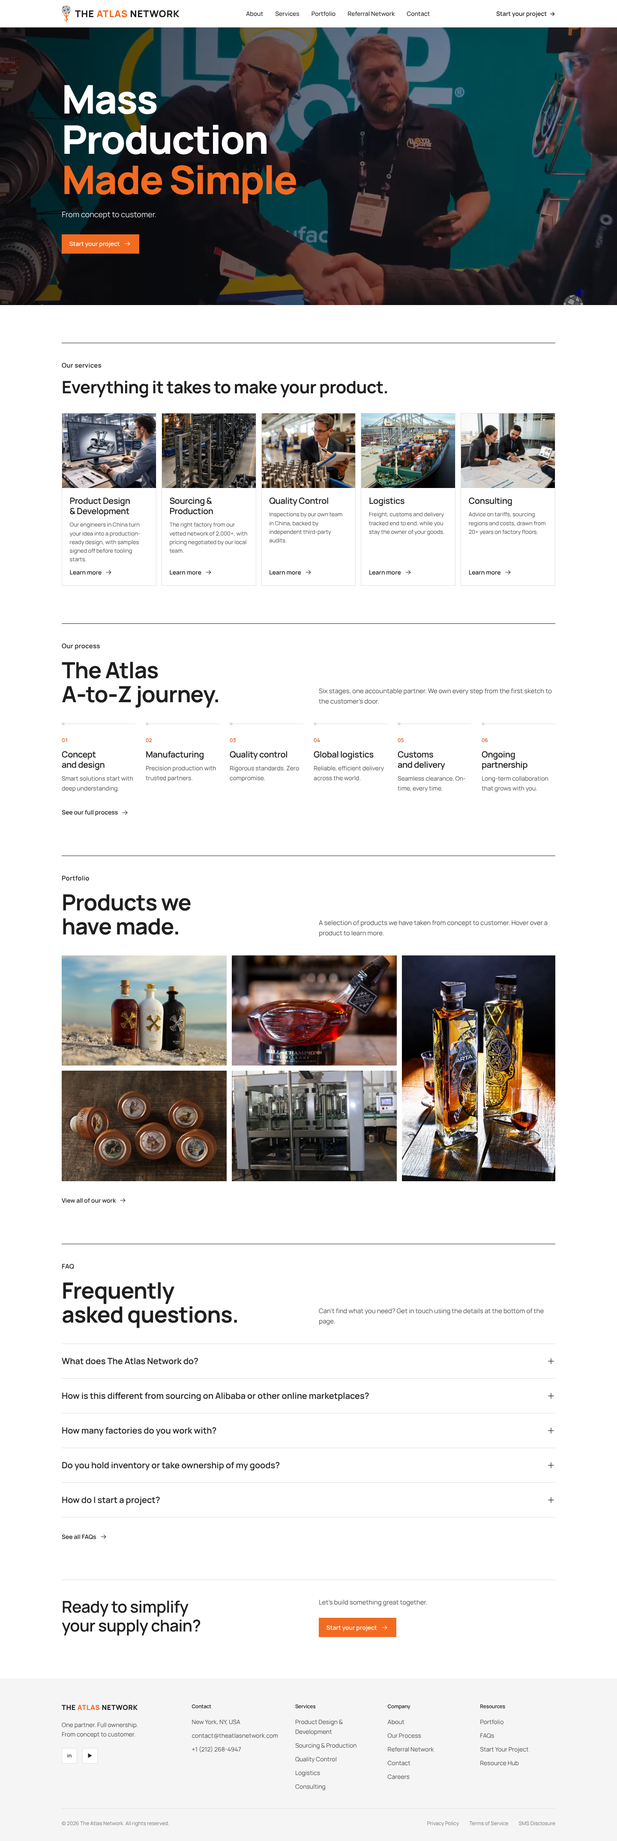
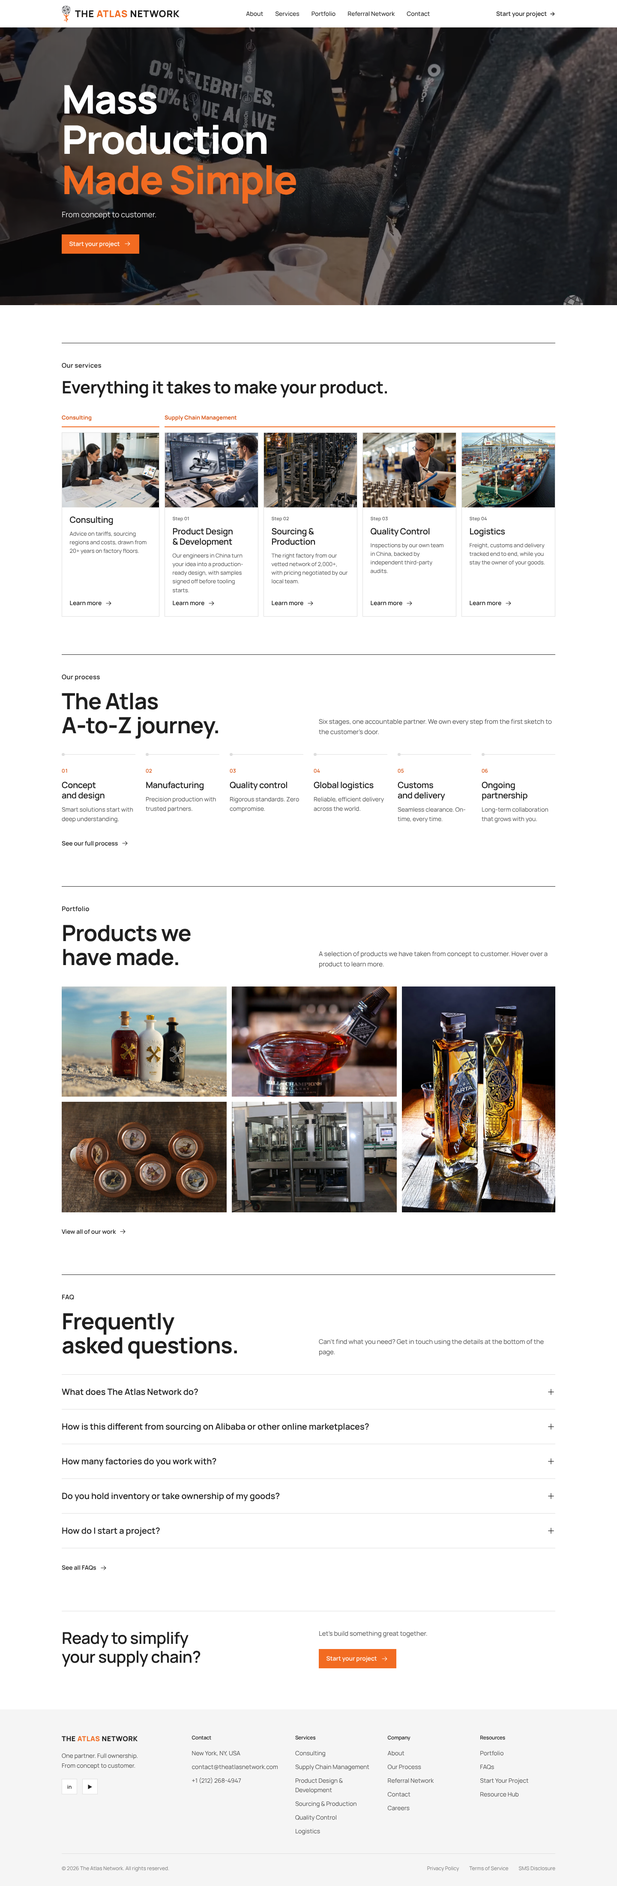
Group services as Consulting, then Supply Chain Management
Supply Chain Management now holds Product Design & Development,
Sourcing & Production, Quality Control and Logistics as its four
steps, on the Services page, the homepage cards and the footer.

Claude-Session: https://claude.ai/code/session_01YL3eWvwcXdoF4z8yaZ8Eba

diff --git a/services.html b/services.html
@@ -4,7 +4,7 @@
 <meta charset="utf-8"/>
 <meta name="viewport" content="width=device-width, initial-scale=1, viewport-fit=cover"/>
 <meta name="theme-color" content="#ffffff"/>
-<title>Our Services | The Atlas Network</title>
+<title>Services | The Atlas Network</title>
 <meta name="description" content="The Atlas Network is a full-service supply chain company that manages your product end-to-end - concept and design, manufacturing, quality control, global logistics, customs and delivery."/>
 <meta name="robots" content="noindex, follow"/>
 <link rel="preconnect" href="https://fonts.googleapis.com"/>
@@ -37,16 +37,58 @@
 <main id="top">
   <section class="page-head">
     <div class="container">
-      <nav class="crumbs" aria-label="Breadcrumb"><a href="index.html">Home</a><span aria-hidden="true">/</span><span>Our Services</span></nav>
+      <nav class="crumbs" aria-label="Breadcrumb"><a href="index.html">Home</a><span aria-hidden="true">/</span><span>Services</span></nav>
       <h1>Everything it takes to <span>make your product.</span></h1>
-      <p class="lead">From the first sketch to final delivery, The Atlas Network manages your product through our team in New York and our own staff in China. Use one service or all five; either way, one team is accountable for the result.</p>
-      <nav class="jump" aria-label="Services on this page"><a href="#product-design">Product Design &amp; Development</a><a href="#sourcing-production">Sourcing &amp; Production</a><a href="#quality-control">Quality Control</a><a href="#logistics">Logistics</a><a href="#consulting">Consulting</a></nav>
+      <p class="lead">The Atlas Network offers two services. Consulting helps you make the right supply chain decisions; supply chain management puts our team in New York and our own staff in China to work on your product, from design to delivery.</p>
+      <nav class="jump" aria-label="Services on this page"><a href="#consulting">Consulting</a><a href="#supply-chain">Supply Chain Management</a></nav>
     </div>
   </section>
 
-  <section id="product-design" class="detail">
+  <section id="consulting" class="detail">
     <div class="container">
-      <div class="detail-head"><span class="eyebrow">Our services</span><h2>Product Design &amp; Development</h2></div>
+      <div class="detail-head"><span class="eyebrow">Service 01</span><h2>Consulting</h2></div>
+      <div class="detail-grid">
+        <div class="detail-media"><img src="assets/images/services/consulting.webp" alt="" loading="lazy"/></div>
+        <div class="detail-body">
+          <p class="lead">Not every challenge needs a new factory. Sometimes it needs someone who knows how global supply chains really work.</p>
+          <p>We review your current suppliers, costs and lead times and show you where money and time are being lost. Our advice draws on more than 20 years of sourcing and manufacturing experience, and on what our teams see on factory floors every day.</p>
+          <p>Clients come to us for help with tariffs, choosing between China, Southeast Asia and nearshoring, switching materials when input costs change, and building supply chains that can absorb disruption. We can advise on a single decision or work alongside your team over the long term.</p>
+        </div>
+      </div>
+      <div class="includes">
+        <span class="eyebrow">What's included</span>
+        <ul>
+            <li class="hover-title"><h3>Supply chain audits</h3><p>A clear picture of your suppliers, costs and weak points.</p></li>
+            <li class="hover-title"><h3>Tariff &amp; duty planning</h3><p>Strategies to manage tariffs and landed cost as rules change.</p></li>
+            <li class="hover-title"><h3>Sourcing strategy</h3><p>Where to make your product: China, Southeast Asia or closer to home.</p></li>
+            <li class="hover-title"><h3>Cost reduction</h3><p>Savings found in materials, pricing, packaging and freight.</p></li>
+            <li class="hover-title"><h3>Risk management</h3><p>Plans for delays, disruptions and single-supplier dependence.</p></li>
+            <li class="hover-title"><h3>Ongoing advisory</h3><p>An experienced partner on call as your business grows.</p></li>
+        </ul>
+      </div>
+    </div>
+  </section>
+  <section id="supply-chain" class="detail">
+    <div class="container">
+      <div class="detail-head"><span class="eyebrow">Service 02</span><h2>Supply Chain Management</h2></div>
+      <div class="scm-intro">
+        <p class="lead">One team manages your product from design to delivery. You stay the consignee and owner of your goods; we coordinate everything in between.</p>
+        <div class="prose-cols">
+        <p>Supply chain management at The Atlas Network brings four steps together under one accountable team. Our staff in Rizhao, China design and engineer the product, select the factory from our vetted network of 2,000+, inspect the work and track every shipment, while our team in New York keeps you informed throughout.</p>
+        <p>Because we work as a 5PL without holding inventory, you keep full visibility of costs and suppliers. Use the whole chain, or bring us in for the steps where you need help most.</p>
+        </div>
+      </div>
+      <ol class="steps steps--4 scm-steps">
+        <li class="step hover-title"><a href="#product-design"><span class="num">01</span><h3>Product Design &amp; Development</h3><p>Our engineers in China turn your idea into a production-ready design, with samples signed off before tooling starts.</p></a></li>
+        <li class="step hover-title"><a href="#sourcing-production"><span class="num">02</span><h3>Sourcing &amp; Production</h3><p>The right factory from our vetted network of 2,000+, with pricing negotiated by our local team.</p></a></li>
+        <li class="step hover-title"><a href="#quality-control"><span class="num">03</span><h3>Quality Control</h3><p>Inspections by our own team in China, backed by independent third-party audits.</p></a></li>
+        <li class="step hover-title"><a href="#logistics"><span class="num">04</span><h3>Logistics</h3><p>Freight, customs and delivery tracked end to end, while you stay the owner of your goods.</p></a></li>
+      </ol>
+    </div>
+  </section>
+  <section id="product-design" class="detail detail--sub">
+    <div class="container">
+      <div class="detail-head"><span class="eyebrow">Supply chain management &middot; Step 01</span><h2>Product Design &amp; Development</h2></div>
       <div class="detail-grid">
         <div class="detail-media"><img src="assets/images/services/product-design.webp" alt="" loading="lazy"/></div>
         <div class="detail-body">
@@ -68,9 +110,9 @@
       </div>
     </div>
   </section>
-  <section id="sourcing-production" class="detail">
+  <section id="sourcing-production" class="detail detail--sub">
     <div class="container">
-      <div class="detail-head"><span class="eyebrow">Our services</span><h2>Sourcing &amp; Production</h2></div>
+      <div class="detail-head"><span class="eyebrow">Supply chain management &middot; Step 02</span><h2>Sourcing &amp; Production</h2></div>
       <div class="detail-grid">
         <div class="detail-media"><img src="assets/images/services/sourcing-production.webp" alt="" loading="lazy"/></div>
         <div class="detail-body">
@@ -92,9 +134,9 @@
       </div>
     </div>
   </section>
-  <section id="quality-control" class="detail">
+  <section id="quality-control" class="detail detail--sub">
     <div class="container">
-      <div class="detail-head"><span class="eyebrow">Our services</span><h2>Quality Control</h2></div>
+      <div class="detail-head"><span class="eyebrow">Supply chain management &middot; Step 03</span><h2>Quality Control</h2></div>
       <div class="detail-grid">
         <div class="detail-media"><img src="assets/images/services/quality-control.webp" alt="" loading="lazy"/></div>
         <div class="detail-body">
@@ -116,9 +158,9 @@
       </div>
     </div>
   </section>
-  <section id="logistics" class="detail">
+  <section id="logistics" class="detail detail--sub">
     <div class="container">
-      <div class="detail-head"><span class="eyebrow">Our services</span><h2>Logistics</h2></div>
+      <div class="detail-head"><span class="eyebrow">Supply chain management &middot; Step 04</span><h2>Logistics</h2></div>
       <div class="detail-grid">
         <div class="detail-media"><img src="assets/images/services/logistics.webp" alt="" loading="lazy"/></div>
         <div class="detail-body">
@@ -136,30 +178,6 @@
             <li class="hover-title"><h3>Customs clearance</h3><p>Entries filed and goods released without delays.</p></li>
             <li class="hover-title"><h3>Duties &amp; compliance</h3><p>Classification and duty planning to avoid costly surprises.</p></li>
             <li class="hover-title"><h3>Storage &amp; delivery</h3><p>Warehousing and final-mile delivery to wherever your goods need to be.</p></li>
-        </ul>
-      </div>
-    </div>
-  </section>
-  <section id="consulting" class="detail">
-    <div class="container">
-      <div class="detail-head"><span class="eyebrow">Our services</span><h2>Consulting</h2></div>
-      <div class="detail-grid">
-        <div class="detail-media"><img src="assets/images/services/consulting.webp" alt="" loading="lazy"/></div>
-        <div class="detail-body">
-          <p class="lead">Not every challenge needs a new factory. Sometimes it needs someone who knows how global supply chains really work.</p>
-          <p>We review your current suppliers, costs and lead times and show you where money and time are being lost. Our advice draws on more than 20 years of sourcing and manufacturing experience, and on what our teams see on factory floors every day.</p>
-          <p>Clients come to us for help with tariffs, choosing between China, Southeast Asia and nearshoring, switching materials when input costs change, and building supply chains that can absorb disruption. We can advise on a single decision or work alongside your team over the long term.</p>
-        </div>
-      </div>
-      <div class="includes">
-        <span class="eyebrow">What's included</span>
-        <ul>
-            <li class="hover-title"><h3>Supply chain audits</h3><p>A clear picture of your suppliers, costs and weak points.</p></li>
-            <li class="hover-title"><h3>Tariff &amp; duty planning</h3><p>Strategies to manage tariffs and landed cost as rules change.</p></li>
-            <li class="hover-title"><h3>Sourcing strategy</h3><p>Where to make your product: China, Southeast Asia or closer to home.</p></li>
-            <li class="hover-title"><h3>Cost reduction</h3><p>Savings found in materials, pricing, packaging and freight.</p></li>
-            <li class="hover-title"><h3>Risk management</h3><p>Plans for delays, disruptions and single-supplier dependence.</p></li>
-            <li class="hover-title"><h3>Ongoing advisory</h3><p>An experienced partner on call as your business grows.</p></li>
         </ul>
       </div>
     </div>
@@ -200,11 +218,12 @@
       <div>
         <h3>Services</h3>
         <ul>
+          <li><a href="services.html#consulting">Consulting</a></li>
+          <li><a href="services.html#supply-chain">Supply Chain Management</a></li>
           <li><a href="services.html#product-design">Product Design &amp; Development</a></li>
           <li><a href="services.html#sourcing-production">Sourcing &amp; Production</a></li>
           <li><a href="services.html#quality-control">Quality Control</a></li>
           <li><a href="services.html#logistics">Logistics</a></li>
-          <li><a href="services.html#consulting">Consulting</a></li>
         </ul>
       </div>
       <div>

diff --git a/index.html b/index.html
@@ -55,47 +55,55 @@
       <div class="section-head section-head--inline">
         <div><span class="eyebrow">Our services</span><h2>Everything it takes to make your product.</h2></div>
       </div>
-      <div class="services">
-        <a class="service hover-title" href="services.html#product-design">
-          <div class="service-img"><img src="assets/images/services/product-design.webp" alt="" loading="lazy"/></div>
-          <div class="service-body">
-            <h3>Product Design &amp; Development</h3>
-            <p>Our engineers in China turn your idea into a production-ready design, with samples signed off before tooling starts.</p>
-            <span class="link-arrow">Learn more <svg class="arrow" viewBox="0 0 24 24" fill="none" stroke="currentColor" stroke-width="1.5" stroke-linecap="round" stroke-linejoin="round" aria-hidden="true"><path d="M4 12h15m-6-6 6 6-6 6"/></svg></span>
+      <div class="services services--grouped">
+        <div class="service-group">
+          <a class="group-label" href="services.html#consulting">Consulting</a>
+          <a class="service hover-title" href="services.html#consulting">
+            <div class="service-img"><img src="assets/images/services/consulting.webp" alt="" loading="lazy"/></div>
+            <div class="service-body">
+              <h3>Consulting</h3>
+              <p>Advice on tariffs, sourcing regions and costs, drawn from 20+ years on factory floors.</p>
+              <span class="link-arrow">Learn more <svg class="arrow" viewBox="0 0 24 24" fill="none" stroke="currentColor" stroke-width="1.5" stroke-linecap="round" stroke-linejoin="round" aria-hidden="true"><path d="M4 12h15m-6-6 6 6-6 6"/></svg></span>
+            </div>
+          </a>
+        </div>
+        <div class="service-group">
+          <a class="group-label" href="services.html#supply-chain">Supply Chain Management</a>
+          <div class="services-inner">
+          <a class="service hover-title" href="services.html#product-design">
+            <div class="service-img"><img src="assets/images/services/product-design.webp" alt="" loading="lazy"/></div>
+            <div class="service-body">
+              <span class="step-num">Step 01</span><h3>Product Design &amp; Development</h3>
+              <p>Our engineers in China turn your idea into a production-ready design, with samples signed off before tooling starts.</p>
+              <span class="link-arrow">Learn more <svg class="arrow" viewBox="0 0 24 24" fill="none" stroke="currentColor" stroke-width="1.5" stroke-linecap="round" stroke-linejoin="round" aria-hidden="true"><path d="M4 12h15m-6-6 6 6-6 6"/></svg></span>
+            </div>
+          </a>
+          <a class="service hover-title" href="services.html#sourcing-production">
+            <div class="service-img"><img src="assets/images/services/sourcing-production.webp" alt="" loading="lazy"/></div>
+            <div class="service-body">
+              <span class="step-num">Step 02</span><h3>Sourcing &amp; Production</h3>
+              <p>The right factory from our vetted network of 2,000+, with pricing negotiated by our local team.</p>
+              <span class="link-arrow">Learn more <svg class="arrow" viewBox="0 0 24 24" fill="none" stroke="currentColor" stroke-width="1.5" stroke-linecap="round" stroke-linejoin="round" aria-hidden="true"><path d="M4 12h15m-6-6 6 6-6 6"/></svg></span>
+            </div>
+          </a>
+          <a class="service hover-title" href="services.html#quality-control">
+            <div class="service-img"><img src="assets/images/services/quality-control.webp" alt="" loading="lazy"/></div>
+            <div class="service-body">
+              <span class="step-num">Step 03</span><h3>Quality Control</h3>
+              <p>Inspections by our own team in China, backed by independent third-party audits.</p>
+              <span class="link-arrow">Learn more <svg class="arrow" viewBox="0 0 24 24" fill="none" stroke="currentColor" stroke-width="1.5" stroke-linecap="round" stroke-linejoin="round" aria-hidden="true"><path d="M4 12h15m-6-6 6 6-6 6"/></svg></span>
+            </div>
+          </a>
+          <a class="service hover-title" href="services.html#logistics">
+            <div class="service-img"><img src="assets/images/services/logistics.webp" alt="" loading="lazy"/></div>
+            <div class="service-body">
+              <span class="step-num">Step 04</span><h3>Logistics</h3>
+              <p>Freight, customs and delivery tracked end to end, while you stay the owner of your goods.</p>
+              <span class="link-arrow">Learn more <svg class="arrow" viewBox="0 0 24 24" fill="none" stroke="currentColor" stroke-width="1.5" stroke-linecap="round" stroke-linejoin="round" aria-hidden="true"><path d="M4 12h15m-6-6 6 6-6 6"/></svg></span>
+            </div>
+          </a>
           </div>
-        </a>
-        <a class="service hover-title" href="services.html#sourcing-production">
-          <div class="service-img"><img src="assets/images/services/sourcing-production.webp" alt="" loading="lazy"/></div>
-          <div class="service-body">
-            <h3>Sourcing &amp; Production</h3>
-            <p>The right factory from our vetted network of 2,000+, with pricing negotiated by our local team.</p>
-            <span class="link-arrow">Learn more <svg class="arrow" viewBox="0 0 24 24" fill="none" stroke="currentColor" stroke-width="1.5" stroke-linecap="round" stroke-linejoin="round" aria-hidden="true"><path d="M4 12h15m-6-6 6 6-6 6"/></svg></span>
-          </div>
-        </a>
-        <a class="service hover-title" href="services.html#quality-control">
-          <div class="service-img"><img src="assets/images/services/quality-control.webp" alt="" loading="lazy"/></div>
-          <div class="service-body">
-            <h3>Quality Control</h3>
-            <p>Inspections by our own team in China, backed by independent third-party audits.</p>
-            <span class="link-arrow">Learn more <svg class="arrow" viewBox="0 0 24 24" fill="none" stroke="currentColor" stroke-width="1.5" stroke-linecap="round" stroke-linejoin="round" aria-hidden="true"><path d="M4 12h15m-6-6 6 6-6 6"/></svg></span>
-          </div>
-        </a>
-        <a class="service hover-title" href="services.html#logistics">
-          <div class="service-img"><img src="assets/images/services/logistics.webp" alt="" loading="lazy"/></div>
-          <div class="service-body">
-            <h3>Logistics</h3>
-            <p>Freight, customs and delivery tracked end to end, while you stay the owner of your goods.</p>
-            <span class="link-arrow">Learn more <svg class="arrow" viewBox="0 0 24 24" fill="none" stroke="currentColor" stroke-width="1.5" stroke-linecap="round" stroke-linejoin="round" aria-hidden="true"><path d="M4 12h15m-6-6 6 6-6 6"/></svg></span>
-          </div>
-        </a>
-        <a class="service hover-title" href="services.html#consulting">
-          <div class="service-img"><img src="assets/images/services/consulting.webp" alt="" loading="lazy"/></div>
-          <div class="service-body">
-            <h3>Consulting</h3>
-            <p>Advice on tariffs, sourcing regions and costs, drawn from 20+ years on factory floors.</p>
-            <span class="link-arrow">Learn more <svg class="arrow" viewBox="0 0 24 24" fill="none" stroke="currentColor" stroke-width="1.5" stroke-linecap="round" stroke-linejoin="round" aria-hidden="true"><path d="M4 12h15m-6-6 6 6-6 6"/></svg></span>
-          </div>
-        </a>
+        </div>
       </div>
     </div>
   </section>
@@ -206,11 +214,12 @@
       <div>
         <h3>Services</h3>
         <ul>
+          <li><a href="services.html#consulting">Consulting</a></li>
+          <li><a href="services.html#supply-chain">Supply Chain Management</a></li>
           <li><a href="services.html#product-design">Product Design &amp; Development</a></li>
           <li><a href="services.html#sourcing-production">Sourcing &amp; Production</a></li>
           <li><a href="services.html#quality-control">Quality Control</a></li>
           <li><a href="services.html#logistics">Logistics</a></li>
-          <li><a href="services.html#consulting">Consulting</a></li>
         </ul>
       </div>
       <div>

diff --git a/assets/css/site.css b/assets/css/site.css
@@ -295,3 +295,24 @@ footer { background: var(--surface); margin-top: 3rem; padding: 3.5rem 0 2rem; f
 .facts span { display: block; margin-top: .6rem; font-size: .875rem; }
 @media (max-width: 860px) { .prose-cols { grid-template-columns: 1fr; } .facts { grid-template-columns: 1fr 1fr; } }
 .faq--page { margin-top: 1rem; }
+
+/* Services grouped: Consulting, then Supply Chain Management and its four steps */
+.services--grouped { grid-template-columns: minmax(0, 1fr) minmax(0, 4fr); gap: 12px; }
+.service-group { display: flex; flex-direction: column; min-width: 0; }
+.service-group > .service { flex: 1; }
+.group-label { display: block; font-size: .8125rem; font-weight: 700; color: var(--orange-dark); padding-bottom: .6rem; margin-bottom: 12px; border-bottom: 2px solid var(--orange); }
+.services-inner { display: grid; grid-template-columns: repeat(4, minmax(0, 1fr)); gap: 12px; flex: 1; }
+.service .step-num { font-size: .6875rem; font-weight: 700; color: var(--muted); }
+@media (max-width: 1023px) {
+  .services--grouped { grid-template-columns: 1fr; gap: 2rem; }
+  .services-inner { grid-template-columns: repeat(2, minmax(0, 1fr)); }
+}
+@media (max-width: 640px) { .services-inner { grid-template-columns: 1fr; } }
+.steps--4 { grid-template-columns: repeat(4, minmax(0, 1fr)); }
+@media (max-width: 760px) { .steps--4 { grid-template-columns: 1fr 1fr; } }
+@media (max-width: 480px) { .steps--4 { grid-template-columns: 1fr; } }
+.detail--sub .detail-head { border-top-color: var(--rule); }
+.detail--sub .detail-head h2 { font-size: clamp(1.625rem, 3vw, 2.25rem); }
+.scm-intro { margin-top: 2rem; }
+.scm-intro .lead { font-size: 1.25rem; font-weight: 500; line-height: 1.5; color: var(--ink); max-width: 46rem; margin-bottom: 1.5rem; }
+.scm-steps { margin-top: 2.5rem; }

diff --git a/about.html b/about.html
@@ -137,11 +137,12 @@
       <div>
         <h3>Services</h3>
         <ul>
+          <li><a href="services.html#consulting">Consulting</a></li>
+          <li><a href="services.html#supply-chain">Supply Chain Management</a></li>
           <li><a href="services.html#product-design">Product Design &amp; Development</a></li>
           <li><a href="services.html#sourcing-production">Sourcing &amp; Production</a></li>
           <li><a href="services.html#quality-control">Quality Control</a></li>
           <li><a href="services.html#logistics">Logistics</a></li>
-          <li><a href="services.html#consulting">Consulting</a></li>
         </ul>
       </div>
       <div>

diff --git a/contact.html b/contact.html
@@ -105,11 +105,12 @@
       <div>
         <h3>Services</h3>
         <ul>
+          <li><a href="services.html#consulting">Consulting</a></li>
+          <li><a href="services.html#supply-chain">Supply Chain Management</a></li>
           <li><a href="services.html#product-design">Product Design &amp; Development</a></li>
           <li><a href="services.html#sourcing-production">Sourcing &amp; Production</a></li>
           <li><a href="services.html#quality-control">Quality Control</a></li>
           <li><a href="services.html#logistics">Logistics</a></li>
-          <li><a href="services.html#consulting">Consulting</a></li>
         </ul>
       </div>
       <div>

diff --git a/faq.html b/faq.html
@@ -168,11 +168,12 @@
       <div>
         <h3>Services</h3>
         <ul>
+          <li><a href="services.html#consulting">Consulting</a></li>
+          <li><a href="services.html#supply-chain">Supply Chain Management</a></li>
           <li><a href="services.html#product-design">Product Design &amp; Development</a></li>
           <li><a href="services.html#sourcing-production">Sourcing &amp; Production</a></li>
           <li><a href="services.html#quality-control">Quality Control</a></li>
           <li><a href="services.html#logistics">Logistics</a></li>
-          <li><a href="services.html#consulting">Consulting</a></li>
         </ul>
       </div>
       <div>

diff --git a/process.html b/process.html
@@ -169,11 +169,12 @@
       <div>
         <h3>Services</h3>
         <ul>
+          <li><a href="services.html#consulting">Consulting</a></li>
+          <li><a href="services.html#supply-chain">Supply Chain Management</a></li>
           <li><a href="services.html#product-design">Product Design &amp; Development</a></li>
           <li><a href="services.html#sourcing-production">Sourcing &amp; Production</a></li>
           <li><a href="services.html#quality-control">Quality Control</a></li>
           <li><a href="services.html#logistics">Logistics</a></li>
-          <li><a href="services.html#consulting">Consulting</a></li>
         </ul>
       </div>
       <div>

diff --git a/start-your-project.html b/start-your-project.html
@@ -119,11 +119,12 @@
       <div>
         <h3>Services</h3>
         <ul>
+          <li><a href="services.html#consulting">Consulting</a></li>
+          <li><a href="services.html#supply-chain">Supply Chain Management</a></li>
           <li><a href="services.html#product-design">Product Design &amp; Development</a></li>
           <li><a href="services.html#sourcing-production">Sourcing &amp; Production</a></li>
           <li><a href="services.html#quality-control">Quality Control</a></li>
           <li><a href="services.html#logistics">Logistics</a></li>
-          <li><a href="services.html#consulting">Consulting</a></li>
         </ul>
       </div>
       <div>

diff --git a/work.html b/work.html
@@ -133,11 +133,12 @@
       <div>
         <h3>Services</h3>
         <ul>
+          <li><a href="services.html#consulting">Consulting</a></li>
+          <li><a href="services.html#supply-chain">Supply Chain Management</a></li>
           <li><a href="services.html#product-design">Product Design &amp; Development</a></li>
           <li><a href="services.html#sourcing-production">Sourcing &amp; Production</a></li>
           <li><a href="services.html#quality-control">Quality Control</a></li>
           <li><a href="services.html#logistics">Logistics</a></li>
-          <li><a href="services.html#consulting">Consulting</a></li>
         </ul>
       </div>
       <div>

diff --git a/referral-network.html b/referral-network.html
@@ -83,11 +83,12 @@
       <div>
         <h3>Services</h3>
         <ul>
+          <li><a href="services.html#consulting">Consulting</a></li>
+          <li><a href="services.html#supply-chain">Supply Chain Management</a></li>
           <li><a href="services.html#product-design">Product Design &amp; Development</a></li>
           <li><a href="services.html#sourcing-production">Sourcing &amp; Production</a></li>
           <li><a href="services.html#quality-control">Quality Control</a></li>
           <li><a href="services.html#logistics">Logistics</a></li>
-          <li><a href="services.html#consulting">Consulting</a></li>
         </ul>
       </div>
       <div>
